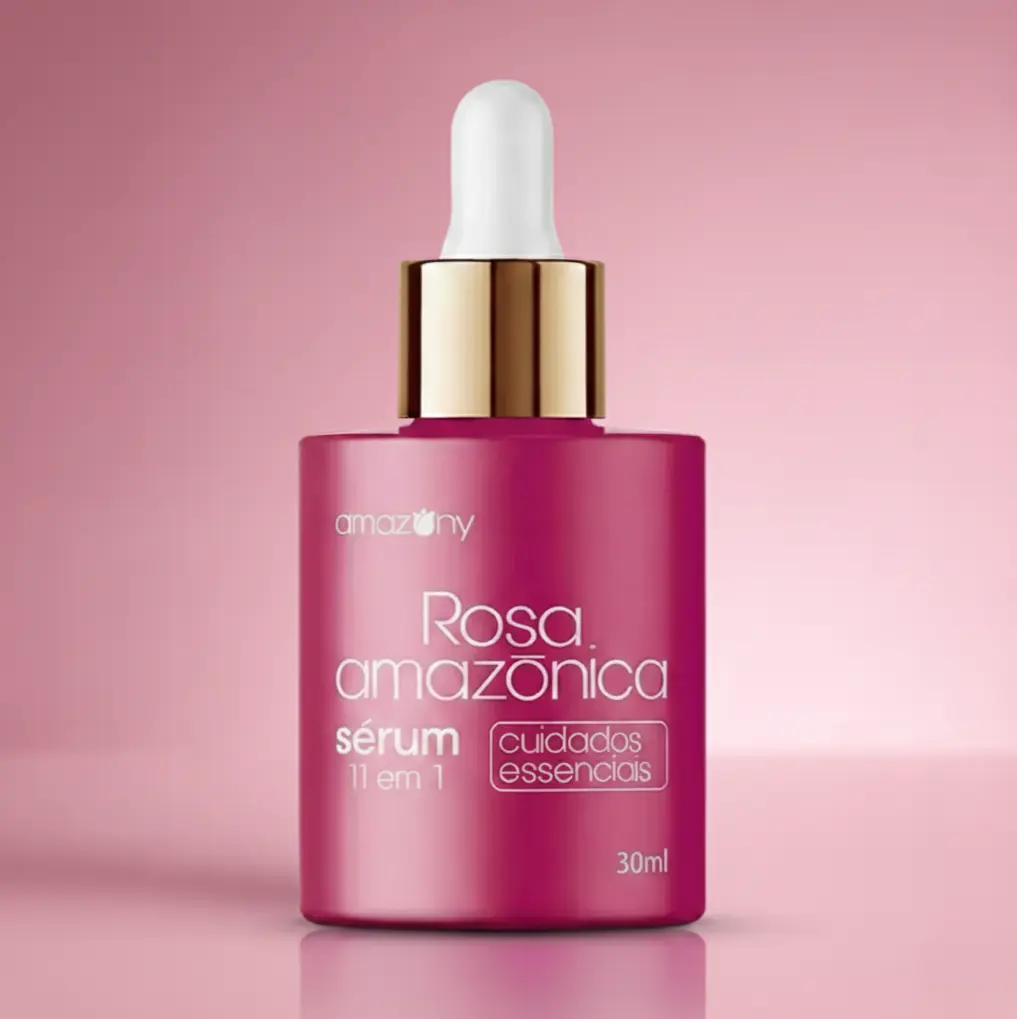
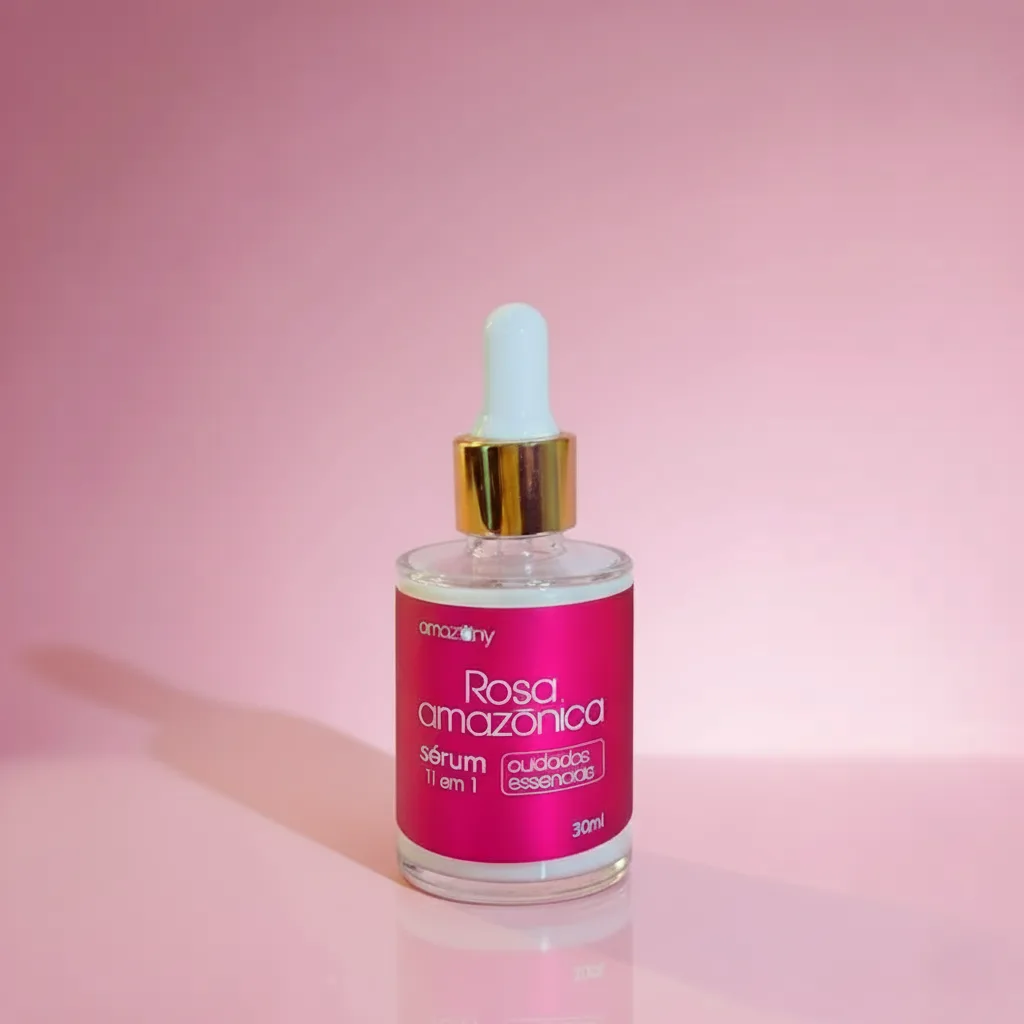
adicionei as imagens do rosa amazonica

Changed region(s): [[0.0, 0.0608, 0.7316, 1.0], [0.0305, 0.6389, 0.1829, 0.6997]]

diff --git a/src/components/TestimonialsSection.tsx b/src/components/TestimonialsSection.tsx
@@ -91,7 +91,7 @@ const TestimonialsSection = () => {
                                </div>
                                <div className="flex items-center justify-center md:justify-start gap-1 mb-1">
                                  <span className="text-xs md:text-sm text-gray-600">Cliente Verificada</span>
-                                 <img src="/lovable-uploads/e5bc6017-5786-4d67-a89d-28203bee7026.png" alt="Selo de verificação" className="w-3 h-3 md:w-4 md:h-4" />
+                                 <img src="/lovable-uploads/selo-verificado.png" alt="Selo de verificação" className="w-3 h-3 md:w-4 md:h-4" />
                                </div>
                                <div className="flex items-center justify-center md:justify-start gap-1">
                                  <span className="text-xs md:text-sm">👉</span>

diff --git a/src/hooks/useProducts.ts b/src/hooks/useProducts.ts
@@ -36,10 +36,10 @@ export const useProducts = () => {
       category: "Skincare",
       images: [
         "/lovable-uploads/rosa-amazonica-1.webp",
-        "/lovable-uploads/rosa-amazonica-.webp",
-        "/lovable-uploads/rosa-amazonica-.webp",
-        "/lovable-uploads/rosa-amazonica-.webp",
-        "/lovable-uploads/rosa-amazonica-.webp"
+        "/lovable-uploads/rosa-amazonica-2.webp",
+        "/lovable-uploads/rosa-amazonica-3.webp",
+        "/lovable-uploads/rosa-amazonica-4.webp",
+        "/lovable-uploads/rosa-amazonica-5.webp"
       ],
       rating: 4.8,
       reviews: 823,
